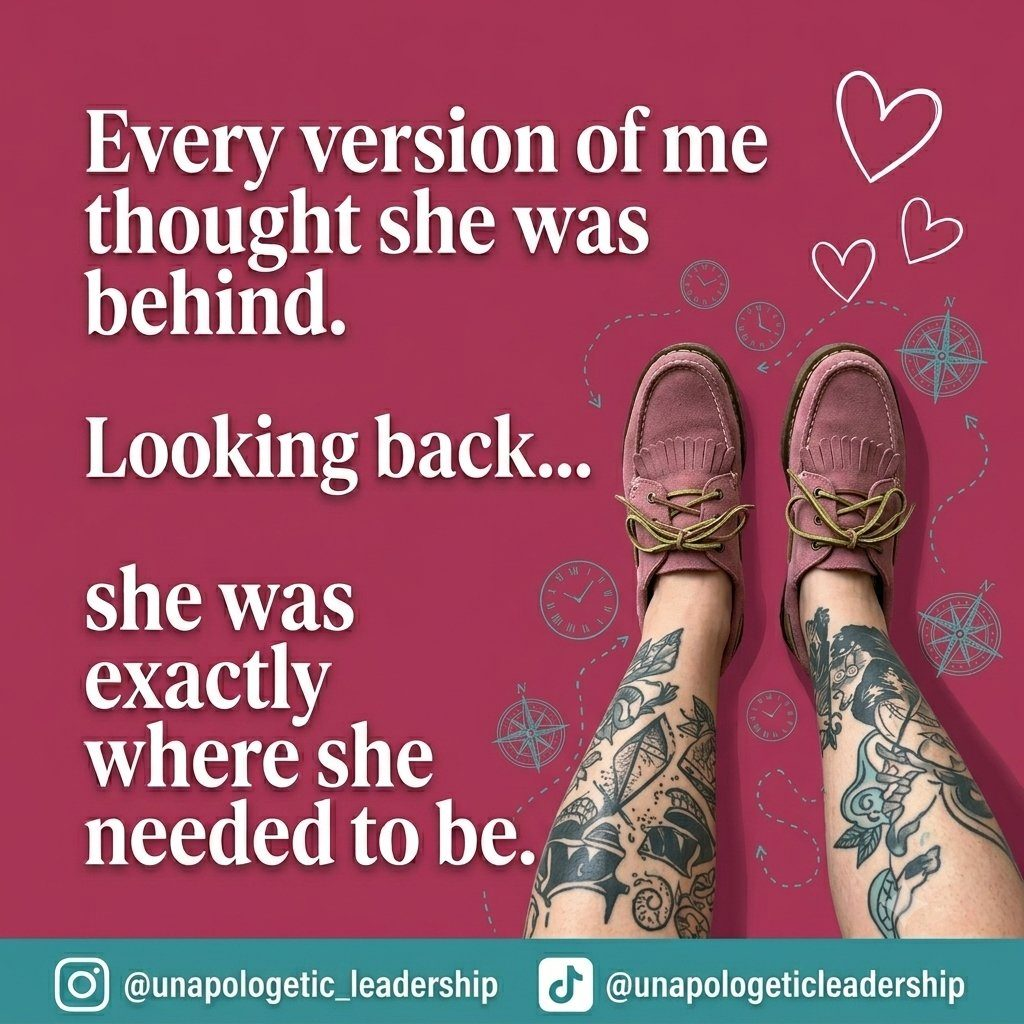
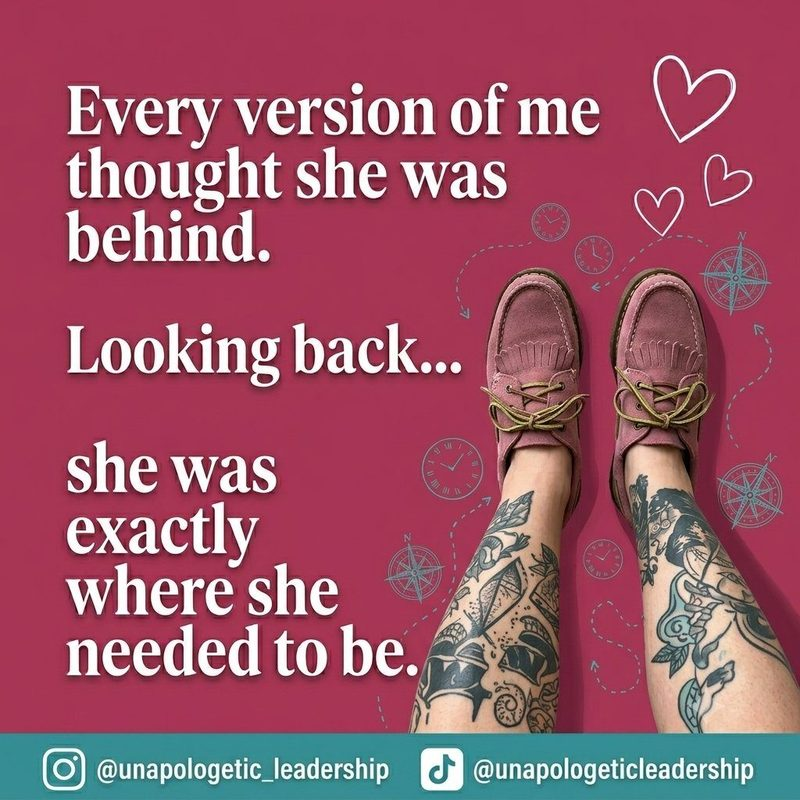
Byline: drop Farley from Press copy and llms.txt (schema alias kept); add photos to Partner, The Middle and Friday Conversations

diff --git a/press.html b/press.html
@@ -2,14 +2,14 @@
 <html lang="en"><head>
 <meta charset="UTF-8"><meta name="viewport" content="width=device-width, initial-scale=1.0">
 <title>Press &amp; Media &middot; Amanda Friedt</title>
-<meta name="description" content="Press kit, bios, speaking history, podcast appearances, bylines, and recognition for Amanda Friedt (professionally also known as Amanda Farley), founder of The Unapologetic Leader and FRDTLAB.">
+<meta name="description" content="Press kit, bios, speaking history, podcast appearances, bylines, and recognition for Amanda Friedt, founder of The Unapologetic Leader and FRDTLAB.">
 <link rel="canonical" href="https://theunapologeticleader.com/press">
 <link rel="icon" href="favicon.svg" type="image/svg+xml">
 <link rel="apple-touch-icon" href="apple-touch-icon.png">
-<meta property="og:type" content="profile"><meta property="og:title" content="Press &amp; Media, Amanda Friedt (Amanda Farley)">
+<meta property="og:type" content="profile"><meta property="og:title" content="Press &amp; Media, Amanda Friedt">
 <meta property="og:description" content="Bios, stages, appearances, bylines, and recognition, with sources linked. Founder of The Unapologetic Leader and FRDTLAB."><meta property="og:url" content="https://theunapologeticleader.com/press">
 <meta property="og:image" content="https://frdtlab.com/img/headshot.jpg">
-<meta name="twitter:card" content="summary_large_image"><meta name="twitter:title" content="Press &amp; Media, Amanda Friedt (Amanda Farley)"><meta name="twitter:description" content="Bios, stages, bylines, and recognition, with sources linked.">
+<meta name="twitter:card" content="summary_large_image"><meta name="twitter:title" content="Press &amp; Media, Amanda Friedt"><meta name="twitter:description" content="Bios, stages, bylines, and recognition, with sources linked.">
 <link rel="preconnect" href="https://fonts.googleapis.com">
 <link rel="preload" as="style" href="https://fonts.googleapis.com/css2?family=Fraunces:ital,opsz,wght@0,9..144,300..600;1,9..144,300..600&family=Inter:wght@400;500;600;700&display=swap">
 <link href="https://fonts.googleapis.com/css2?family=Fraunces:ital,opsz,wght@0,9..144,300..600;1,9..144,300..600&family=Inter:wght@400;500;600;700&display=swap" rel="stylesheet" media="print" onload="this.media='all'">
@@ -155,7 +155,7 @@ h1 em,h2 em,.hero em,.h em{font-style:italic!important;color:var(--tul-accent)!i
 <!-- CANONICAL NAME BLOCK -->
 <section class="sec" style="padding-top:10px"><div class="wrap" style="max-width:820px">
   <div class="anchor reveal">
-    <p><b style="color:var(--ink)">Amanda Friedt</b> is the founder of The Unapologetic Leader and FRDTLAB, and a VP of Growth. Much of her public work in search and performance marketing was published under her professional name, <b style="color:var(--ink)">Amanda Farley</b>. Same person, same body of work, both names appear in the record below. Detroit, Michigan.</p>
+    <p><b style="color:var(--ink)">Amanda Friedt</b> is the founder of The Unapologetic Leader and FRDTLAB, and a VP of Growth. Some of her earlier bylines and speaker profiles, linked below, appear under a former name. Same person, same body of work. Detroit, Michigan.</p>
   </div>
 </div></section>
 
@@ -165,7 +165,7 @@ h1 em,h2 em,.hero em,.h em{font-style:italic!important;color:var(--tul-accent)!i
   <h2 class="h" style="margin:12px 0 6px">Two lengths. Copy-paste ready.</h2>
   <p style="color:var(--ink-soft);margin-bottom:22px">Pick what fits your format. Version noted on each.</p>
   <div class="biocard reveal"><span class="tag">Short &middot; ~50 words</span><p>Amanda Friedt is a Detroit-based growth operator, speaker, and founder of The Unapologetic Leader and FRDTLAB. A 4x 2026 US Search Awards winner, six-time PPC Hero Top 25 honoree, and mainstage speaker at SMX, Hero Conf, and brightonSEO, she writes and speaks on AI-era marketing and the human cost of being the capable one.</p></div>
-  <div class="biocard reveal"><span class="tag">Medium &middot; ~100 words</span><p>Amanda Friedt (professionally also known as Amanda Farley) is a growth and marketing operator with two decades across agency, investor-backed, and founder-led environments. She is the founder of The Unapologetic Leader, a movement for high-capacity women who carry what was never theirs, and FRDTLAB, an intelligence lab for AI-era marketing infrastructure. She is a 4x 2026 US Search Awards winner for programs she led, and has been named a PPC Hero Top 25 Most Influential PPC Expert six times and a TrueClicks Top 50 PPC expert, with bylines in Search Engine Land and MarTech and mainstage talks at SMX, Hero Conf, and brightonSEO. She lives and builds in metro Detroit.</p></div>
+  <div class="biocard reveal"><span class="tag">Medium &middot; ~100 words</span><p>Amanda Friedt is a growth and marketing operator with two decades across agency, investor-backed, and founder-led environments. She is the founder of The Unapologetic Leader, a movement for high-capacity women who carry what was never theirs, and FRDTLAB, an intelligence lab for AI-era marketing infrastructure. She is a 4x 2026 US Search Awards winner for programs she led, and has been named a PPC Hero Top 25 Most Influential PPC Expert six times and a TrueClicks Top 50 PPC expert, with bylines in Search Engine Land and MarTech and mainstage talks at SMX, Hero Conf, and brightonSEO. She lives and builds in metro Detroit.</p></div>
 </div></section>
 
 <!-- ON STAGE -->
@@ -227,7 +227,7 @@ h1 em,h2 em,.hero em,.h em{font-style:italic!important;color:var(--tul-accent)!i
 <section class="sec" style="border-top:1px solid var(--line)"><div class="wrap" style="max-width:820px">
   <div class="eyebrow">Verify the record</div>
   <h2 class="h" style="margin:12px 0 6px">The same person, across the web.</h2>
-  <p style="color:var(--ink-soft)">Every link below is live and resolves to Amanda Friedt / Amanda Farley. These are the sources, not the claim.</p>
+  <p style="color:var(--ink-soft)">Every link below is live and points to Amanda Friedt&rsquo;s own work. These are the sources, not the claim.</p>
   <div class="hub">
     <a href="https://www.linkedin.com/in/amandafriedt/" target="_blank" rel="noopener">LinkedIn</a>
     <a href="https://searchengineland.com/author/amanda-farley" target="_blank" rel="noopener">Search Engine Land</a>

diff --git a/themiddle.html b/themiddle.html
@@ -190,6 +190,7 @@ h1 em,h2 em,.hero em,.display em,.lede em,blockquote em{font-style:italic!import
     <a href="#early" class="btn btn-primary">Get early access</a>
     <a href="/essays" class="btn btn-text">Read the Dispatch</a>
   </div>
+  <div style="display:grid;grid-template-columns:repeat(auto-fit,minmax(240px,1fr));gap:18px;max-width:760px;margin:34px auto 0"><img src="/img/becoming-card.jpg" width="800" height="800" alt="Card reading: Nobody talks enough about becoming. The awkward middle. The uncertain step. The version of you that exists before the breakthrough. Trust the becoming. You're right on time." style="width:100%;height:auto;display:block;border-radius:14px;box-shadow:0 18px 44px rgba(0,0,0,.14)"><img src="/img/behind-card.jpg" width="800" height="800" alt="Card reading: Every version of me thought she was behind. Looking back, she was exactly where she needed to be." loading="lazy" style="width:100%;height:auto;display:block;border-radius:14px;box-shadow:0 18px 44px rgba(0,0,0,.14)"></div>
   <div class="rule"></div>
 </div></header>
 

diff --git a/friday-conversations.html b/friday-conversations.html
@@ -363,6 +363,7 @@ h1 em,h2 em,.hero em,.display em,.lede em,blockquote em{font-style:italic!import
 <section class="about">
   <div class="wrap">
     <div class="narrow">
+      <img src="/img/press/amanda-friedt-headshot.jpg" width="600" height="600" alt="Amanda Friedt, smiling, with long blonde and pink hair." loading="lazy" style="width:132px;height:132px;border-radius:50%;object-fit:cover;display:block;margin:0 0 18px">
       <div class="eyebrow reveal">About Amanda</div>
       <p class="reveal"><strong>Amanda Friedt is a growth strategist, leadership advisor, speaker, and builder</strong> known for helping organizations and individuals work through complexity with clarity.</p>
       <p class="reveal">Her background spans leadership, marketing, growth strategy, AI, organizational transformation, and business development.</p>

diff --git a/partner.html b/partner.html
@@ -176,6 +176,7 @@ h1 em,h2 em,.hero em,.display em,.lede em,blockquote em{font-style:italic!import
     <a href="#connect" class="btn btn-primary">Start a conversation</a>
     <a href="/start-here" class="btn btn-text">Read the letter</a>
   </div>
+  <figure style="margin:34px auto 0;max-width:920px;border-radius:16px;overflow:hidden;box-shadow:0 24px 60px rgba(0,0,0,.16)"><img src="/img/smx-panel.jpg" width="1200" height="900" alt="Amanda Friedt on a four-person panel on the SMX Search Marketing Expo stage." style="width:100%;height:auto;display:block"></figure>
   <div class="rule"></div>
 </div></header>
 
